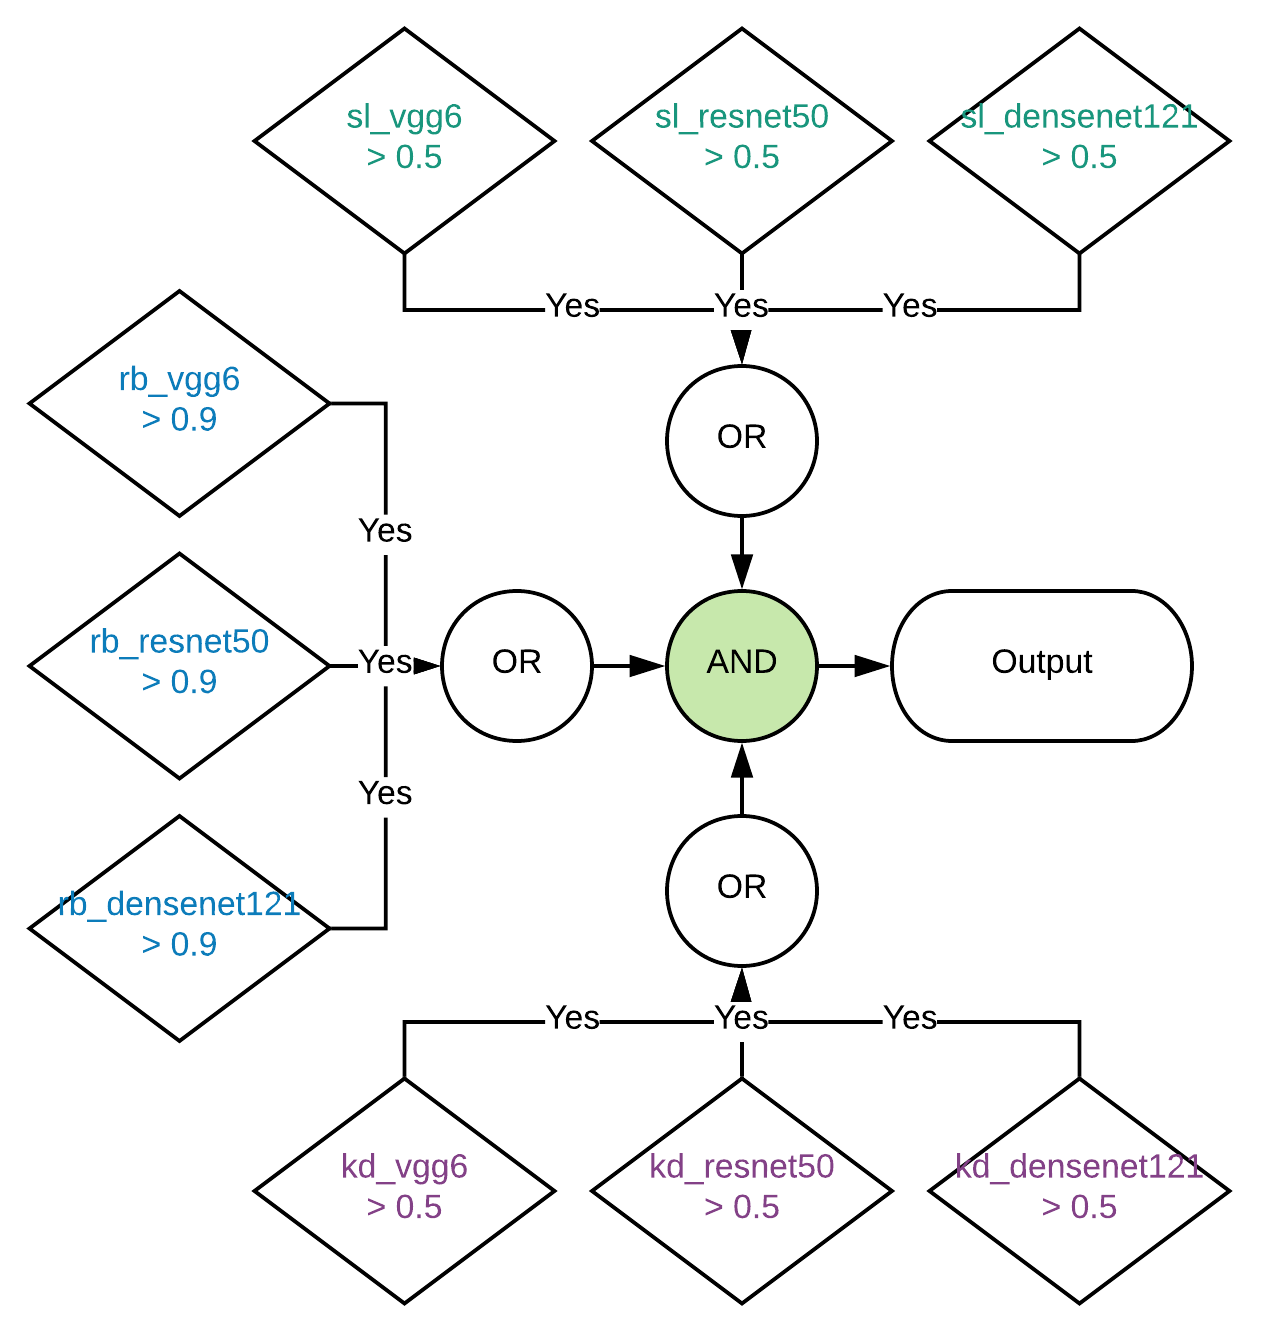
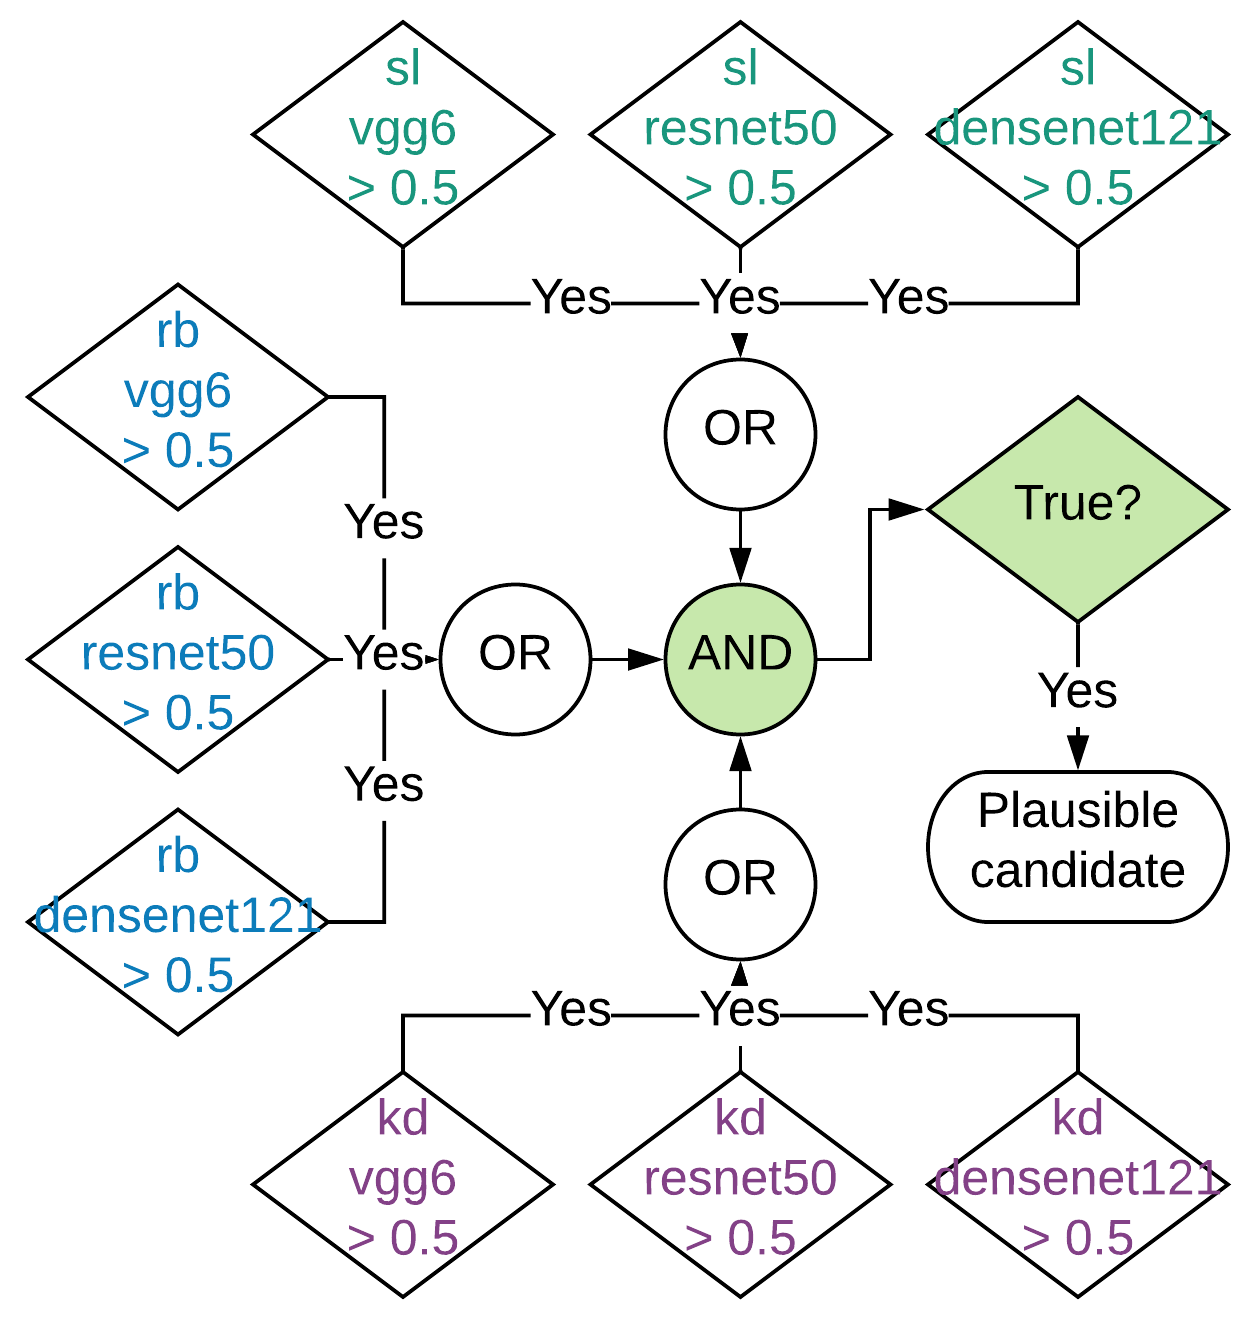
rtfm: readme

diff --git a/readme.md b/readme.md
@@ -1,12 +1,12 @@
 # DeepStreaks: identifying Near-Earth Asteroids (NEAs) in the Zwicky Transient Facility (ZTF) data with deep learning
 
-DeepStreaks is a deep learning framework developed to efficiently identify streaking near-Earth objects in the data of 
-the [Zwicky Transient Facilty (ZTF)](https://ztf.caltech.edu), a wide-field time-domain survey using a dedicated 47 sq. deg. camera 
-attached to the Samuel Oschin Telescope at the Palomar Observatory in California, United States. 
-The performance is great: well above 95% accuracy when compared to the performance of human scanners, 
-occasionally reaching ~200%. The system is deployed and is adapted for usage within the ZTF Solar system framework.
-
-From December 15, 2018 - January 15, 2018, over 10 NEAs were discovered with the help of DeepStreaks.
+DeepStreaks is a convolutional neural network-based deep learning system designed to efficiently identify 
+streaking near-Earth objects in the data of the [Zwicky Transient Facilty (ZTF)](https://ztf.caltech.edu), 
+a wide-field time-domain survey using a dedicated 47 deg$^2$ camera attached to the Samuel Oschin 48-inch 
+telescope at the Palomar Observatory in California, United States. The system demonstrates 95-98\% true positive rate 
+while keeping the false positive rate below 1\%, which significantly reduces human involvement in the streak 
+identification process. The system is deployed and is adapted for usage within the ZTF Solar system framework. 
+During its first month of operation, DeepStreaks discovered 10 near-Earth asteroids.
 
 For details, please see Duev et al., MNRAS, 2019 (in prep.).
 
@@ -25,7 +25,7 @@ fast moving objects, long streaks from satellites, and cosmic rays.
 - "kd": ditch (kd=0) ot keep (kd=1)? Is this a real streak, or a cosmic ray/some other artifact?
 
 For a streak to be declared a plausible candidate, for each family, the scores from at least one family member must
-be above the corresponding threshold (threshold_rb=0.9, threshold_sl=0.5, threshold_kd=0.5)
+be above the corresponding threshold (threshold_rb=0.5, threshold_sl=0.5, threshold_kd=0.5)
 
 <img src="doc/DeepStreaks.png" width="50%">
 
@@ -38,23 +38,9 @@ The models are implemented using `Keras` with a `TensorFlow` backend (GPU-enable
 
 The data were prepared using [Zwickyverse](https://github.com/dmitryduev/zwickyverse).
 
-todo: update stats to 2019.1
-
-#### bogus vs real (2018.9)
-
-- 905 long streaks from ZTF data
-- 5000 bogus cutouts from ZTF data
-- 8270 (4135 + 4135) synthetic short streaks from QZ (generated May 25, 2018)
-- 669 real short streaks from ZTF data from May 1 to Aug 31, 2018
-
-#### long streak vs short streak (2018.9)  
-
-- 905 long streaks from ZTF data
-- 905 synthetic short streaks from QZ (generated May 25, 2018)
-- 669 real short streaks from ZTF data from May 1 to Aug 31, 2018
-
-...
-
+As of January 2019, the training set for the "rb" classifiers contains 11,857 streak and 13,449 non-streak images; 
+for the "sl" classifiers -- 5,168 long and 11,246 short streak images; 
+for the ""kd" classifiers -- 12,288 "false" and 9,769 "true" images
 
 ### Training and performance
 

diff --git a/wisdom.md b/wisdom.md
@@ -65,7 +65,10 @@ for p in 5b96af9c0354c9000b0aea36 5b99b2c6aec3c500103a14de 5be0ae7958830a0018821
 
 Iterate over range of dates:
 ```bash
-for d in {49..275}; do echo `date +%Y%m%d -d "$d day ago"`; done
+for d in {50..279}; do echo `date +%Y%m%d -d "$d day ago"`; done
+for d in {50..279}; do echo `date +%Y%m%d -d "$d day ago"`; python fetcher.py --obsdate `date +%Y%m%d -d "$d day ago"` --enforce --looponce; python watcher.py config.json --obsdate `date +%Y%m%d -d "$d day ago"` --enforce --looponce; done
 python fetcher.py --obsdate `date +%Y%m%d -d "$d day ago"` --enforce --looponce
-python watcher.py --obsdate `date +%Y%m%d -d "$d day ago"` --enforce --looponce
+python watcher.py config.json --obsdate `date +%Y%m%d -d "$d day ago"` --enforce --looponce
+python fetcher.py --obsdate 20181213 --enforce --looponce
+python watcher.py config.json --obsdate 20181213 --enforce --looponce
 ```
